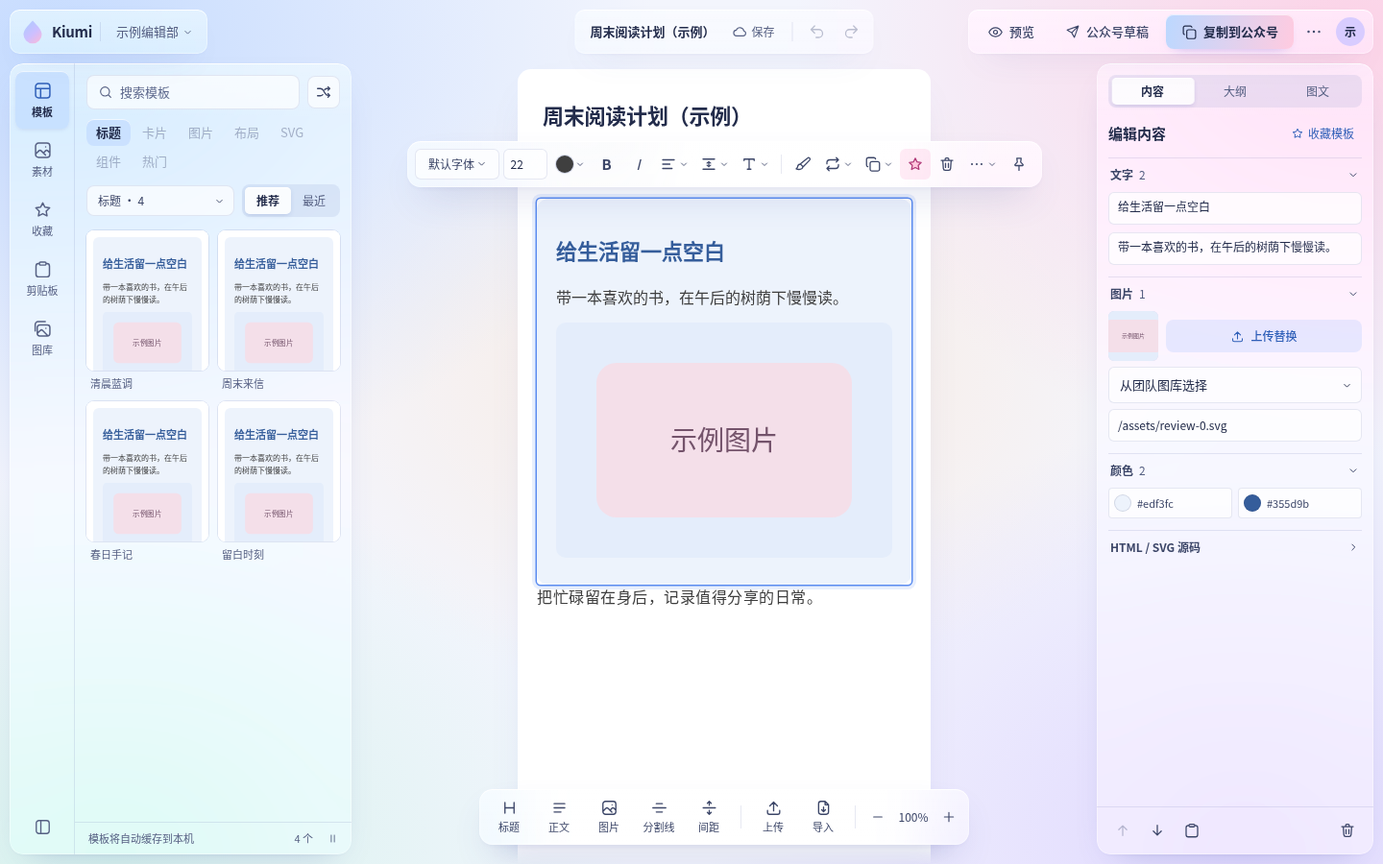
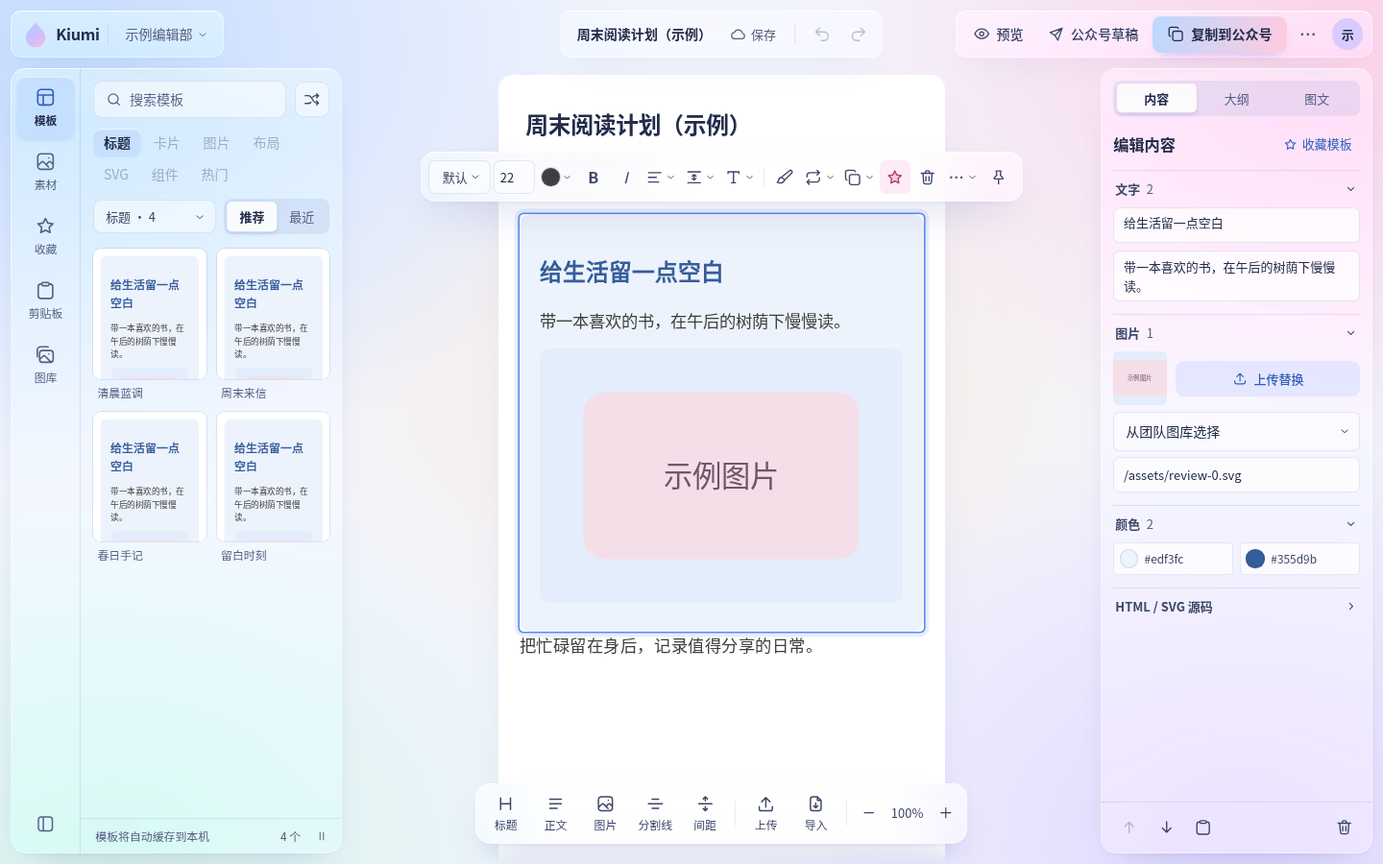
Open up the glass and scale the shell up slightly
Lower panel fills and strengthen blur so colour reads through, and zoom the
whole shell by window class (1.04, 1.08, 1.1). Measured overlays convert through
lib/ui-scale.ts and viewport units through --vh and --vw so they stay aligned.

diff --git a/apps/web/src/styles.css b/apps/web/src/styles.css
@@ -26,6 +26,7 @@
 
 /* ------------------------------------------------------------------ Base */
 
+html { zoom: var(--ui-scale); }
 html, body, #root { height: 100%; }
 
 body {
@@ -109,7 +110,7 @@ fieldset { border: 0; margin: 0; padding: 0; min-width: 0; }
 .block-toolbar::before { background: var(--glass-sheen), var(--glass-fill-toolbar); }
 .glass-pop::before, .pop-menu::before, .tool-popover::before, .toast::before { background: var(--glass-sheen), var(--glass-fill-strong); }
 .capsule::before, .dock::before { background: var(--glass-sheen), var(--glass-fill-float); }
-.sheet::before { background: var(--glass-sheen), rgb(255 255 255 / 84%); backdrop-filter: var(--glass-blur-sheet); }
+.sheet::before { background: var(--glass-sheen), rgb(255 255 255 / 76%); backdrop-filter: var(--glass-blur-sheet); }
 
 @supports not (backdrop-filter: blur(1px)) {
   .capsule::before, .island::before, .dock::before, .block-toolbar::before, .toast::before, .glass-pop::before, .pop-menu::before, .tool-popover::before, .sheet::before { background: var(--glass-solid); }
@@ -223,7 +224,7 @@ textarea.field { resize: none; field-sizing: content; max-height: 280px; display
 .select-trigger:hover:not(:disabled) { background: var(--field-fill-focus); }
 .select-trigger:disabled { opacity: .55; }
 .select-trigger.is-field { width: 100%; min-height: 38px; padding-left: 12px; border-radius: var(--r-sm); font-size: var(--text-md); color: var(--ink-900); }
-.select-trigger.is-chip { flex: none; width: 88px; border-radius: var(--r-sm); padding: 0 6px 0 9px; }
+.select-trigger.is-chip { flex: none; width: 64px; border-radius: var(--r-sm); padding: 0 6px 0 9px; }
 .listbox { position: fixed; z-index: 90; display: grid; grid-template-columns: minmax(0, 1fr); align-content: start; gap: 1px; padding: 6px; overflow-y: auto; border-radius: var(--r-md); box-shadow: var(--shadow-float); animation: pop-in var(--t-base) var(--ease-out); color: var(--ink-700); font-family: var(--font-ui); font-size: var(--text-md); }
 .listbox[data-flip="true"] { animation-name: pop-up; }
 .listbox > button { display: flex; align-items: center; justify-content: space-between; gap: 8px; min-height: 34px; padding: 0 10px; border-radius: var(--r-xs); text-align: left; cursor: pointer; }
@@ -484,7 +485,7 @@ input[type="checkbox"] { accent-color: var(--sky-deep); width: 16px; height: 16p
 }
 .editor-canvas:hover { scrollbar-color: rgb(116 134 196 / 34%) transparent; }
 .paper-scale { width: 430px; margin: 0 auto; }
-.paper { position: relative; min-height: max(720px, calc(100vh - 32px)); padding: 28px 20px 132px; border-radius: var(--r-xl); background: var(--paper); box-shadow: var(--shadow-paper); color: #3f3f3f; }
+.paper { position: relative; min-height: max(720px, calc(var(--vh) - 32px)); padding: 28px 20px 132px; border-radius: var(--r-xl); background: var(--paper); box-shadow: var(--shadow-paper); color: #3f3f3f; }
 .paper-title {
   display: block;
   width: 100%;
@@ -610,7 +611,7 @@ input.font-size { width: 46px; min-height: 32px; margin: 0 3px; padding: 0 4px 0
   grid-template-columns: minmax(0, 1fr);
   gap: 2px;
   width: 196px;
-  max-height: min(660px, var(--popover-height, 48vh));
+  max-height: min(660px, var(--popover-height, calc(var(--vh) * .48)));
   padding: 8px;
   overflow-y: auto;
   border-radius: var(--r-lg);
@@ -730,7 +731,7 @@ input.font-size { width: 46px; min-height: 32px; margin: 0 3px; padding: 0 4px 0
 /* --------------------------------------------------------------- Sheets */
 
 .modal-backdrop { position: fixed; inset: 0; z-index: 60; display: flex; align-items: center; justify-content: center; padding: 32px; background: rgb(96 112 180 / 20%); backdrop-filter: blur(10px) saturate(130%); animation: fade-in var(--t-base) ease; }
-.sheet { display: flex; flex-direction: column; width: 100%; max-height: calc(100vh - 64px); border-radius: var(--r-sheet); box-shadow: var(--shadow-sheet); color: var(--ink-900); animation: sheet-in var(--t-slow) var(--ease-out); }
+.sheet { display: flex; flex-direction: column; width: 100%; max-height: calc(var(--vh) - 64px); border-radius: var(--r-sheet); box-shadow: var(--shadow-sheet); color: var(--ink-900); animation: sheet-in var(--t-slow) var(--ease-out); }
 .sheet-md { max-width: 660px; }
 .sheet-lg { max-width: 860px; }
 .sheet-preview { max-width: 430px; }
@@ -751,7 +752,7 @@ input.font-size { width: 46px; min-height: 32px; margin: 0 3px; padding: 0 4px 0
 .section-head h3 { flex: 1; font-size: var(--text-lg); font-weight: 650; }
 .section-head > span { font-size: var(--text-sm); color: var(--ink-500); }
 .section-head .btn { min-height: 32px; font-size: var(--text-sm); padding: 0 12px; }
-.article-preview-frame { width: 100%; flex: 0 1 auto; height: min(640px, calc(100vh - 170px)); min-height: 0; border: 0; border-radius: 0 0 var(--r-sheet) var(--r-sheet); background: var(--paper); }
+.article-preview-frame { width: 100%; flex: 0 1 auto; height: min(640px, calc(var(--vh) - 170px)); min-height: 0; border: 0; border-radius: 0 0 var(--r-sheet) var(--r-sheet); background: var(--paper); }
 
 .workspace-welcome { display: grid; justify-items: center; gap: 4px; padding-bottom: 12px; }
 .workspace-top { display: grid; grid-template-columns: minmax(0, .8fr) minmax(0, 1fr) minmax(0, 1fr); gap: 16px; align-items: end; padding-bottom: 16px; box-shadow: inset 0 -1px 0 var(--hairline); }
@@ -801,7 +802,7 @@ input.font-size { width: 46px; min-height: 32px; margin: 0 3px; padding: 0 4px 0
 .import-dialog .segmented { justify-self: start; }
 .paste-box { height: 148px; overflow-y: auto; field-sizing: fixed; }
 .paste-box:empty::before { content: attr(data-placeholder); color: var(--ink-placeholder); }
-.import-preview { max-height: 42vh; padding: 4px 16px; overflow-y: auto; border-radius: var(--r-md); background: var(--paper); box-shadow: inset 0 0 0 1px var(--hairline); color: #3f3f3f; }
+.import-preview { max-height: calc(var(--vh) * .42); padding: 4px 16px; overflow-y: auto; border-radius: var(--r-md); background: var(--paper); box-shadow: inset 0 0 0 1px var(--hairline); color: #3f3f3f; }
 .import-item { padding: 12px 0; box-shadow: inset 0 -1px 0 var(--hairline); }
 .import-item:last-child { box-shadow: none; }
 .import-item-head { display: flex; align-items: center; gap: 10px; margin-bottom: 8px; font-size: var(--text-sm); color: var(--ink-500); }
@@ -816,7 +817,7 @@ input.font-size { width: 46px; min-height: 32px; margin: 0 3px; padding: 0 4px 0
 
 /* ---------------------------------------------------------------- Toast */
 
-.toast { position: fixed; z-index: 55; left: 50%; bottom: 96px; display: flex; align-items: center; gap: 7px; max-width: min(460px, 60vw); padding: 8px 15px; border-radius: var(--r-md); box-shadow: var(--shadow-float); font-size: var(--text-md); color: var(--ink-900); transform: translate(-50%, 10px) scale(.96); opacity: 0; visibility: hidden; transition: opacity var(--t-base) ease, transform var(--t-slow) var(--ease-out), visibility var(--t-base); pointer-events: none; }
+.toast { position: fixed; z-index: 55; left: 50%; bottom: 96px; display: flex; align-items: center; gap: 7px; max-width: min(460px, calc(var(--vw) * .6)); padding: 8px 15px; border-radius: var(--r-md); box-shadow: var(--shadow-float); font-size: var(--text-md); color: var(--ink-900); transform: translate(-50%, 10px) scale(.96); opacity: 0; visibility: hidden; transition: opacity var(--t-base) ease, transform var(--t-slow) var(--ease-out), visibility var(--t-base); pointer-events: none; }
 .toast[data-visible="true"] { transform: translate(-50%, 0); opacity: 1; visibility: visible; }
 .toast svg { flex: none; color: var(--mint-deep); }
 .toast[data-tone="error"] svg { color: var(--danger); }
@@ -838,14 +839,18 @@ input.font-size { width: 46px; min-height: 32px; margin: 0 3px; padding: 0 4px 0
 
 /* ----------------------------------------------------------- Desktop fit */
 
-@media (min-width: 1680px) {
-  :root { --resource-width: 404px; --inspector-width: 320px; }
+@media (min-width: 1800px) {
+  :root { --ui-scale: 1.1; --resource-width: 404px; --inspector-width: 320px; }
 }
 @media (max-width: 1360px) {
+  :root { --ui-scale: 1.04; }
+}
+@media (max-width: 1500px) {
   :root { --resource-width: 320px; --inspector-width: 262px; }
   .editor-canvas { padding-inline: 10px; }
   .capsule-document { max-width: 380px; }
-  .select-trigger.is-chip { width: 74px; padding: 0 4px 0 7px; }
+  .select-trigger.is-chip { width: 60px; padding: 0 3px 0 8px; }
+  input.font-size { width: 40px; margin: 0 2px; padding: 0 2px 0 6px; }
   .toolbar-row > button, .toolbar-row summary { min-width: 30px; padding: 0 3px; }
   .toolbar-rule { margin: 0 3px; }
   .btn-candy { padding: 0 14px; }
@@ -860,7 +865,7 @@ input.font-size { width: 46px; min-height: 32px; margin: 0 3px; padding: 0 4px 0
 }
 @media (max-height: 700px) {
   .modal-backdrop { padding: 20px; }
-  .sheet { max-height: calc(100vh - 40px); }
+  .sheet { max-height: calc(var(--vh) - 40px); }
   .sheet-header { padding-top: 16px; padding-bottom: 8px; }
   .sheet-body { padding-bottom: 18px; gap: 12px; }
   .dropzone { padding-block: 12px; }

diff --git a/apps/web/src/components/BlockToolbar.tsx b/apps/web/src/components/BlockToolbar.tsx
@@ -3,6 +3,7 @@ import { createPortal } from 'react-dom';
 import { useStore } from '../store.ts';
 import { copyRichHtml, renderDocument } from '../api.ts';
 import { editBlock, styleBlock } from '../lib/block-edit.ts';
+import { layoutRect, layoutViewport, uiScale } from '../lib/ui-scale.ts';
 import { Icon } from './Icon.tsx';
 import { ColorPicker, Select } from './ui.tsx';
 
@@ -42,11 +43,11 @@ export function BlockToolbar() {
       const canvas = document.querySelector('.editor-canvas');
       const target = document.querySelector(`[data-editor-block="${CSS.escape(block.id)}"]`);
       if (!canvas || !target) return;
-      const area = canvas.getBoundingClientRect(), rect = target.getBoundingClientRect();
+      const area = layoutRect(canvas), rect = layoutRect(target);
       const width = toolbar.current?.offsetWidth || 600, height = toolbar.current?.offsetHeight || 56;
       const ceiling = area.top + TOP_CLEARANCE, floor = area.bottom - height - BOTTOM_CLEARANCE;
       // Never cover the article title: above the block, else below it, else tucked inside its top edge.
-      const title = document.querySelector('.paper-title')?.getBoundingClientRect();
+      const titleNode = document.querySelector('.paper-title'), title = titleNode && layoutRect(titleNode);
       const safe = title && title.bottom > ceiling ? title.bottom + 6 : ceiling;
       const above = rect.top - height - 12, below = rect.bottom + 12;
       const top = pinned ? safe : above >= safe ? Math.min(above, floor) : below <= floor ? below : Math.min(floor, Math.max(safe, rect.top + 8));
@@ -62,10 +63,10 @@ export function BlockToolbar() {
     if (!block || pinned) return;
     const canvas = document.querySelector('.editor-canvas'), target = document.querySelector(`[data-editor-block="${CSS.escape(block.id)}"]`);
     if (!canvas || !target) return;
-    const area = canvas.getBoundingClientRect(), rect = target.getBoundingClientRect(), height = toolbar.current?.offsetHeight || 56;
-    const title = document.querySelector('.paper-title')?.getBoundingClientRect();
+    const area = layoutRect(canvas), rect = layoutRect(target), height = toolbar.current?.offsetHeight || 56;
+    const titleNode = document.querySelector('.paper-title'), title = titleNode && layoutRect(titleNode);
     const above = rect.top - height - 12, ceiling = area.top + TOP_CLEARANCE, safe = title && title.bottom > ceiling ? title.bottom + 6 : ceiling;
-    if (above < safe && rect.bottom + 12 > area.bottom - BOTTOM_CLEARANCE - height) canvas.scrollBy({ top: above - ceiling });
+    if (above < safe && rect.bottom + 12 > area.bottom - BOTTOM_CLEARANCE - height) canvas.scrollBy({ top: (above - ceiling) * uiScale() });
   }, [block?.id, pinned]);
   const present = block !== null;
   useEffect(() => {
@@ -101,7 +102,7 @@ export function BlockToolbar() {
   };
   const transformNumber = (key: string, fallback: number) => Number(css('transform', '', true).match(new RegExp(`${key}\\((-?[\\d.]+)`))?.[1] ?? fallback);
   const barHeight = toolbar.current?.offsetHeight || 56;
-  const roomAbove = position.top - TOP_CLEARANCE - 12, roomBelow = window.innerHeight - position.top - barHeight - 24;
+  const roomAbove = position.top - TOP_CLEARANCE - 12, roomBelow = layoutViewport().height - position.top - barHeight - 24;
   const openUp = roomAbove > roomBelow;
   const popHeight = Math.max(160, openUp ? roomAbove : roomBelow);
   const align = css('text-align', 'left');
@@ -112,7 +113,7 @@ export function BlockToolbar() {
     if (current.open) toolbar.current?.querySelectorAll('details[open]').forEach(el => { if (el !== current) el.removeAttribute('open'); });
   }}>
     <div className="toolbar-row">
-      <Select variant="chip" label="字体" value={css('font-family', '').includes('serif') && !css('font-family', '').includes('sans-serif') ? 'serif' : css('font-family', '').includes('monospace') ? 'monospace' : 'sans-serif'} onChange={value => apply('font-family', value)} options={[{ value: 'sans-serif', label: '默认字体' }, { value: 'serif', label: '宋体 / 衬线' }, { value: 'monospace', label: '等宽字体' }]} />
+      <Select variant="chip" label="字体" value={css('font-family', '').includes('serif') && !css('font-family', '').includes('sans-serif') ? 'serif' : css('font-family', '').includes('monospace') ? 'monospace' : 'sans-serif'} onChange={value => apply('font-family', value)} options={[{ value: 'sans-serif', label: '默认' }, { value: 'serif', label: '宋体' }, { value: 'monospace', label: '等宽' }]} />
       <input className="font-size" aria-label="字号" data-tip="字号" type="number" min={8} max={96} value={number('font-size', 16)} onChange={e => { if (e.target.value) apply('font-size', `${Math.max(8, Math.min(96, Number(e.target.value)))}px`); }} />
       <Menu label="文字颜色" icon={<span className="color-dot" style={{ background: textColor }} />}><ColorPicker label="文字颜色" value={textColor} onChange={color => apply('color', color)} /></Menu>
       <button type="button" aria-label="加粗" data-tip="加粗" aria-pressed={['bold','700'].includes(css('font-weight', ''))} onClick={() => toggle('font-weight', 'bold', 'normal')}><b>B</b></button>

diff --git a/apps/web/src/components/ui.tsx b/apps/web/src/components/ui.tsx
@@ -1,5 +1,6 @@
 import { useEffect, useId, useLayoutEffect, useRef, useState, type KeyboardEvent as ReactKeyboardEvent, type ReactNode, type RefObject } from 'react';
 import { createPortal } from 'react-dom';
+import { layoutRect, layoutViewport } from '../lib/ui-scale.ts';
 import { Icon, type IconName } from './Icon.tsx';
 
 /** The signature move: one selection marker slides to the active item, shared by every switcher. */
@@ -85,11 +86,11 @@ export function Select<T extends string | number>({ label, value, options, onCha
 }) {
   const id = useId();
   const trigger = useRef<HTMLButtonElement>(null), list = useRef<HTMLDivElement>(null);
-  const [open, setOpen] = useState(false), [active, setActive] = useState(0), [box, setBox] = useState<DOMRect | null>(null);
+  const [open, setOpen] = useState(false), [active, setActive] = useState(0), [box, setBox] = useState<ReturnType<typeof layoutRect> | null>(null);
   const currentIndex = options.findIndex(option => option.value === value);
   const show = () => {
     if (disabled || !trigger.current) return;
-    setBox(trigger.current.getBoundingClientRect()); setActive(Math.max(0, currentIndex)); setOpen(true);
+    setBox(layoutRect(trigger.current)); setActive(Math.max(0, currentIndex)); setOpen(true);
   };
   const close = () => { setOpen(false); trigger.current?.focus(); };
   const choose = (index: number) => {
@@ -123,13 +124,14 @@ export function Select<T extends string | number>({ label, value, options, onCha
     else if (event.key === 'End') { event.preventDefault(); setActive(step(options.length, -1)); }
     else if (event.key === 'Enter' || event.key === ' ') { event.preventDefault(); choose(active); }
   };
-  const below = box ? window.innerHeight - box.bottom : 0, flip = box ? below < 220 && box.top > below : false;
+  const screen = layoutViewport();
+  const below = box ? screen.height - box.bottom : 0, flip = box ? below < 220 && box.top > below : false;
   const width = box ? Math.max(box.width, 168) : 168;
   return <>
     <button ref={trigger} type="button" role="combobox" className={`select-trigger is-${variant}`} aria-label={label} aria-haspopup="listbox" aria-expanded={open} aria-controls={open ? id : undefined} aria-activedescendant={open ? `${id}-${active}` : undefined} data-value={value} disabled={disabled} onClick={() => (open ? setOpen(false) : show())} onKeyDown={onKey}>
       <span>{options[currentIndex]?.label ?? ''}</span><Icon name="chevron" size={13} />
     </button>
-    {open && box && createPortal(<div ref={list} id={id} role="listbox" aria-label={label} className="listbox glass-pop" data-flip={flip} style={{ left: Math.max(8, Math.min(box.left, window.innerWidth - width - 8)), width, maxHeight: Math.min(300, (flip ? box.top : below) - 16), ...(flip ? { bottom: window.innerHeight - box.top + 6 } : { top: box.bottom + 6 }) }}>
+    {open && box && createPortal(<div ref={list} id={id} role="listbox" aria-label={label} className="listbox glass-pop" data-flip={flip} style={{ left: Math.max(8, Math.min(box.left, screen.width - width - 8)), width, maxHeight: Math.min(300, (flip ? box.top : below) - 16), ...(flip ? { bottom: screen.height - box.top + 6 } : { top: box.bottom + 6 }) }}>
       {options.map((option, index) => <button type="button" role="option" tabIndex={-1} id={`${id}-${index}`} data-index={index} key={String(option.value)} aria-selected={option.value === value} data-active={index === active} disabled={option.disabled} onPointerMove={() => setActive(index)} onClick={() => choose(index)}>
         <span>{option.label}</span>{option.value === value && <Icon name="check" size={15} />}
       </button>)}

diff --git a/apps/web/src/tokens.css b/apps/web/src/tokens.css
@@ -7,6 +7,11 @@
 }
 
 :root {
+  /* Whole-shell scale, one step per window class; lib/ui-scale.ts reads it back for measured overlays. */
+  --ui-scale: 1.08;
+  --vh: calc(100vh / var(--ui-scale));
+  --vw: calc(100vw / var(--ui-scale));
+
   /* Ink: deep indigo, never pure black, so glass stays soft. */
   --ink-900: #232c4b;
   --ink-700: #3c4668;
@@ -45,16 +50,16 @@
   /* Material */
   --ground: #f3f5fd;
   --paper: #ffffff;
-  --glass-fill: rgb(255 255 255 / 44%);
-  --glass-fill-float: rgb(255 255 255 / 42%);
-  --glass-fill-toolbar: rgb(255 255 255 / 56%);
-  --glass-fill-strong: rgb(255 255 255 / 68%);
+  --glass-fill: rgb(255 255 255 / 32%);
+  --glass-fill-float: rgb(255 255 255 / 30%);
+  --glass-fill-toolbar: rgb(255 255 255 / 44%);
+  --glass-fill-strong: rgb(255 255 255 / 58%);
   --glass-solid: #f8f8fe;
   --glass-edge: inset 0 1px 0 rgb(255 255 255 / 88%), inset 0 0 0 1px rgb(255 255 255 / 40%);
-  --glass-blur: blur(30px) saturate(190%);
+  --glass-blur: blur(32px) saturate(200%);
   --glass-blur-sheet: blur(44px) saturate(180%);
   --glass-sheen: linear-gradient(180deg, rgb(255 255 255 / 24%), rgb(255 255 255 / 0%) 56px);
-  --field-fill: rgb(255 255 255 / 66%);
+  --field-fill: rgb(255 255 255 / 48%);
   --field-fill-focus: rgb(255 255 255 / 94%);
   --candy: linear-gradient(100deg, #bcd8ff, #ffcbe0);
   --candy-hover: linear-gradient(100deg, #accfff, #ffbdd8);

diff --git a/apps/web/src/components/Canvas.tsx b/apps/web/src/components/Canvas.tsx
@@ -4,6 +4,7 @@ import { Dock } from './Dock.tsx';
 import { isPlaceholder } from '../lib/template-style.ts';
 import { useEffect, useRef, useState } from 'react';
 import { uploadImage } from '../api.ts';
+import { layoutViewport, uiScale } from '../lib/ui-scale.ts';
 import { cleanHtml } from '../lib/import.ts';
 import { primaryTextSlot } from '../lib/slots.ts';
 import { useStore } from '../store.ts';
@@ -189,7 +190,7 @@ export function Canvas() {
                   event.preventDefault();
                   event.stopPropagation();
                   select(index);
-                  setMenu({ x: event.clientX, y: event.clientY, block: index });
+                  setMenu({ x: event.clientX / uiScale(), y: event.clientY / uiScale(), block: index });
                 }}
                 onBlur={(event) => {
                   if (editing?.block === index) {
@@ -291,7 +292,7 @@ export function Canvas() {
       {menu && (
         <div
           className="canvas-context-menu glass-pop"
-          style={{ left: Math.max(8, Math.min(menu.x, window.innerWidth - 188)), top: Math.max(8, Math.min(menu.y, window.innerHeight - 226)) }}
+          style={{ left: Math.max(8, Math.min(menu.x, layoutViewport().width - 188)), top: Math.max(8, Math.min(menu.y, layoutViewport().height - 226)) }}
           onClick={(event) => event.stopPropagation()}
         >
           {[

diff --git a/apps/web/src/lib/ui-scale.ts b/apps/web/src/lib/ui-scale.ts
@@ -1,0 +1,15 @@
+/**
+ * The shell is scaled with root `zoom`. Rects and `clientX` are visual pixels while `left`/`top`
+ * and `offsetWidth` are layout pixels, so anything positioned from a measurement goes through here.
+ */
+export const uiScale = (): number => parseFloat(getComputedStyle(document.documentElement).getPropertyValue('--ui-scale')) || 1;
+
+export function layoutRect(element: Element) {
+  const scale = uiScale(), rect = element.getBoundingClientRect();
+  return { left: rect.left / scale, right: rect.right / scale, top: rect.top / scale, bottom: rect.bottom / scale, width: rect.width / scale, height: rect.height / scale };
+}
+
+export const layoutViewport = () => {
+  const scale = uiScale();
+  return { width: window.innerWidth / scale, height: window.innerHeight / scale };
+};

diff --git a/apps/web/e2e/editor.spec.ts b/apps/web/e2e/editor.spec.ts
@@ -247,7 +247,7 @@ test('glass listbox supports keyboard, mouse and Escape without closing its dial
   await openEditor(page);
   const font = toolbar(page).getByRole('combobox', { name: '字体' });
   await font.click();
-  await page.getByRole('option', { name: '宋体 / 衬线' }).click();
+  await page.getByRole('option', { name: '宋体' }).click();
   await expect(content(page).locator('p').first()).toHaveCSS('font-family', 'serif');
   await font.focus();
   await page.keyboard.press('ArrowDown');

diff --git a/apps/web/DESIGN.md b/apps/web/DESIGN.md
@@ -24,13 +24,13 @@ colors:
   hairline-strong: "rgb(92 108 170 / 26%)"
   ground: "#f3f5fd"
   paper: "#ffffff"
-  glass-fill: "rgb(255 255 255 / 44%)"
-  glass-fill-toolbar: "rgb(255 255 255 / 56%)"
-  glass-fill-strong: "rgb(255 255 255 / 68%)"
-  glass-fill-sheet: "rgb(255 255 255 / 84%)"
+  glass-fill: "rgb(255 255 255 / 32%)"
+  glass-fill-toolbar: "rgb(255 255 255 / 44%)"
+  glass-fill-strong: "rgb(255 255 255 / 58%)"
+  glass-fill-sheet: "rgb(255 255 255 / 76%)"
   glass-solid: "#f8f8fe"
   glass-edge: "rgb(255 255 255 / 88%)"
-  field-fill: "rgb(255 255 255 / 66%)"
+  field-fill: "rgb(255 255 255 / 48%)"
   field-fill-focus: "rgb(255 255 255 / 94%)"
   focus: "#5b8cf0"
   selected-wash: "rgb(112 158 255 / 16%)"
@@ -304,7 +304,7 @@ components:
 - **次级墨** (`ink-700`)：控件默认文字。**弱墨** (`ink-500`)：次要说明、计数、未选导航。**占位墨** (`ink-placeholder`)：只给 placeholder。
 - **细线** (`hairline` / `hairline-strong`)：分隔线、字段描边、列表界线；strong 用于字段悬停和拖放区。
 - **底色** (`ground`)：环境光下的基底。**白纸** (`paper`)：文章、模板预览和缩略图的底。
-- **玻璃填充** (`glass-fill` 44%、胶囊与 Dock 42%、`glass-fill-toolbar` 56%、`glass-fill-strong` 68%、`glass-fill-sheet` 84%)：岛和胶囊、跟随工具条、弹出层、弹窗，越靠上层越实。**玻璃回退** (`glass-solid`)：浏览器不支持 backdrop-filter 时使用。**玻璃边** (`glass-edge`)：四周均匀的 1px 细边。
+- **玻璃填充** (`glass-fill` 32%、胶囊与 Dock 30%、`glass-fill-toolbar` 44%、`glass-fill-strong` 58%、`glass-fill-sheet` 76%)：岛和胶囊、跟随工具条、弹出层、弹窗，越靠上层越实。**玻璃回退** (`glass-solid`)：浏览器不支持 backdrop-filter 时使用。**玻璃边** (`glass-edge`)：四周均匀的 1px 细边。
 - **状态** (`danger` / `danger-hover` / `danger-wash`、`warn` / `warn-wash`)：破坏性操作和发布前警告，文字色在对应浅底上保持可读。
 - **工具提示墨** (`tooltip`)、**遮罩** (`backdrop`)：工具提示底和弹窗遮罩。
 - **文章墨** (`article-ink` #3f3f3f)：文章默认字色，属于文章，不属于界面。
@@ -359,7 +359,7 @@ components:
 
 ## Elevation & Depth
 
-深度来自四件事：环境光、一层磨砂、顶边细高光、两层投影。所有玻璃面共用 `--glass-blur`（`blur(30px) saturate(190%)`，弹窗用更重的 `--glass-blur-sheet`（`blur(44px) saturate(180%)`））、1px 均匀玻璃边和按层级递增的填充不透明度；不支持 backdrop-filter 时回退到 `glass-solid`。弹窗几乎不透明，避免长表单被背景干扰；遮罩是 `backdrop` 加 `blur(10px) saturate(130%)`。
+深度来自四件事：环境光、一层磨砂、顶边细高光、两层投影。所有玻璃面共用 `--glass-blur`（`blur(32px) saturate(200%)`，弹窗用更重的 `--glass-blur-sheet`（`blur(44px) saturate(180%)`））、1px 均匀玻璃边和按层级递增的填充不透明度；不支持 backdrop-filter 时回退到 `glass-solid`。弹窗几乎不透明，避免长表单被背景干扰；遮罩是 `backdrop` 加 `blur(10px) saturate(130%)`。
 
 层级从低到高：跟随块快捷工具 5、岛 10、Dock 30、跟随工具条 35、顶栏 40、右键菜单 45、弹出菜单 50、Toast 55、弹窗 60、工具提示 80、下拉列表 90。
 
@@ -378,6 +378,8 @@ components:
 一条曲线 `--ease-out`（`cubic-bezier(.16, 1, .3, 1)`，无过冲），三档时长：150ms 用于颜色和描边，220ms 用于弹出和淡入，420ms 用于滑动、弹窗入场和岛的展开。一切位移和缩放都减速落定；纯颜色和透明度的淡变可以用 `ease`。环境光换色 900ms、加载微光 1.5s 线性循环是仅有的两个例外。按下缩到 .97。减少动态偏好下关闭动画，过渡缩短到 1ms。
 
 ### Named Rules
+
+**The 整体缩放 Rule.** 界面用根级 `zoom`（`--ui-scale`）等比放大：窗口 ≤1360 为 1.04，常规 1.08，≥1800 为 1.1。文中所有 px 都是缩放前的值。按测量定位的浮层必须走 `lib/ui-scale.ts`，视口单位必须用 `--vh`、`--vw`，否则位置和高度都会偏移。
 
 **The 克制玻璃 Rule.** 玻璃是一块有光泽的薄片：通透填充、强模糊、顶边 1px 细高光、顶部 56px 淡光、两层靛蓝投影，到此为止。质感只在边缘和顶部出现，任何暗示球面、粗厚边缘或随指针移动的光都不属于这个世界。
 

diff --git a/apps/web/docs/README.md b/apps/web/docs/README.md
@@ -34,7 +34,7 @@ React + Zustand。左上角团队入口提供创建/加入/切换团队、成员
 
 界面 tokens 在 `tokens.css`，组件规则在 `styles.css`（已替换旧的层叠覆盖；Tailwind 只导入 theme 与 utilities，不含 preflight，外壳 reset 止于文章内容）。玻璃的模糊、淡光和顶边高光放在 `::before` 上，这样溢出的菜单能采样到页面，而不是父级。文章正文不继承界面主题。规范见 [DESIGN.md](../DESIGN.md)，功能和平台限制见 [编辑工作台](../../../docs/EDITOR_DESIGN.md)。
 
-`BlockToolbar.tsx` 跟随选中内容，`lib/block-edit.ts` 从源 HTML 执行文本/样式/图片操作，通过 store commit 保留撤销；原生块 DOM 编辑后转为保留 ID 的 HTML 块。`ArticleSettings.tsx` 管理封面、摘要、作者、标签、主题色与发布前检查；公众号草稿默认采用此封面。收藏和剪贴板用 `lib/block-label.ts` 展示正文摘要而非内部 ID；`lib/template-name.ts` 过滤目录编号，`lib/article-context.ts` 是画布、缩略图、收藏与预览共用的文章阅读语境。删除文稿和解除绑定用 `ConfirmAction.tsx` 就地确认。
+`BlockToolbar.tsx` 跟随选中内容，`lib/block-edit.ts` 从源 HTML 执行文本/样式/图片操作，通过 store commit 保留撤销；原生块 DOM 编辑后转为保留 ID 的 HTML 块。`ArticleSettings.tsx` 管理封面、摘要、作者、标签、主题色与发布前检查；公众号草稿默认采用此封面。收藏和剪贴板用 `lib/block-label.ts` 展示正文摘要而非内部 ID；`lib/template-name.ts` 过滤目录编号，`lib/article-context.ts` 是画布、缩略图、收藏与预览共用的文章阅读语境。界面用根级 `zoom` 等比放大（`--ui-scale`，按窗口宽度 1.04/1.08/1.1），`lib/ui-scale.ts` 负责测量坐标与布局坐标的换算；工具条、下拉、右键菜单都经它定位，CSS 视口单位用 `--vh`、`--vw`。删除文稿和解除绑定用 `ConfirmAction.tsx` 就地确认。
 
 ## 视觉检查复现
 

diff --git a/docs/EDITOR_DESIGN.md b/docs/EDITOR_DESIGN.md
@@ -37,7 +37,7 @@
 
 图标按钮都有无障碍名称和延迟出现的提示。伪元素提示文字会进入带文本按钮的可访问名称计算，所以此类按钮必须显式写 `aria-label`。
 
-桌面验证宽度为 1280、1440、1920 及 1280×680。尊重 reduced-motion；不支持 backdrop-filter 时使用实色回退。基础交互不依赖动画。`field-sizing` 不受支持的浏览器中，文本框不随内容自动增高，仍可滚动输入。
+界面按窗口宽度等比放大 1.04/1.08/1.1，文章内容也随之放大，缩放显示的 100% 是相对这个基准。桌面验证宽度为 1280、1440、1920 及 1280×680。尊重 reduced-motion；不支持 backdrop-filter 时使用实色回退。基础交互不依赖动画。`field-sizing` 不受支持的浏览器中，文本框不随内容自动增高，仍可滚动输入。
 
 ## 验证
 
